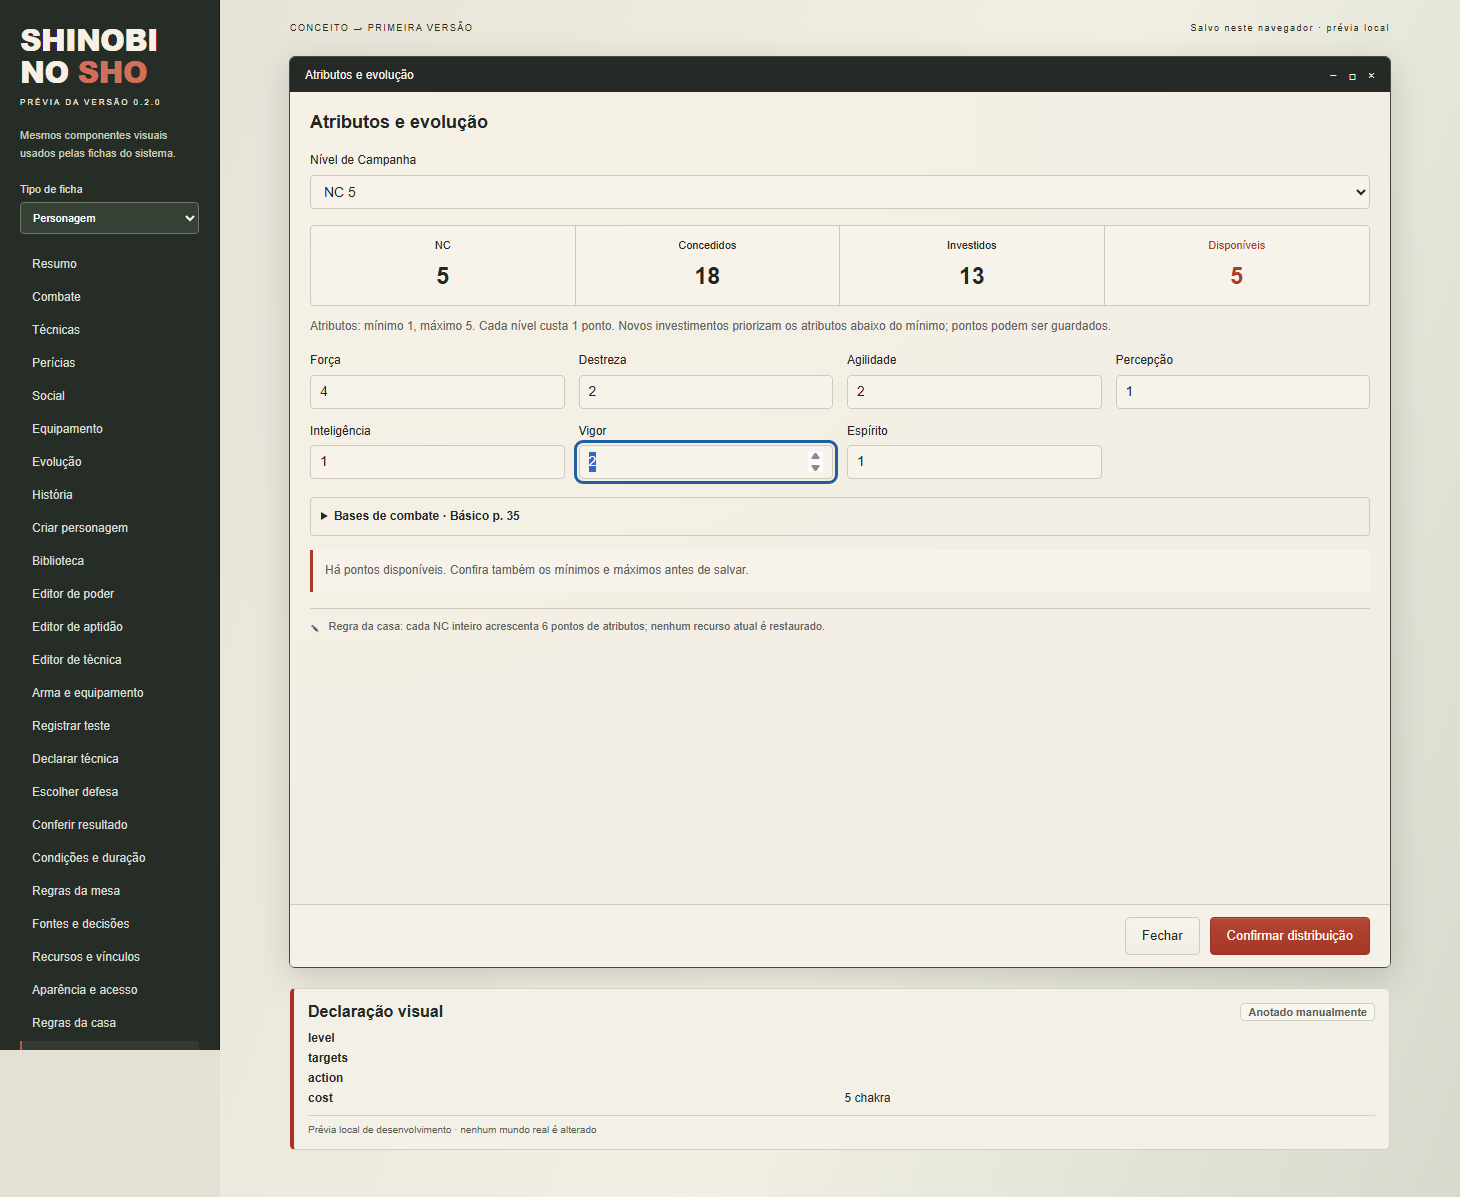
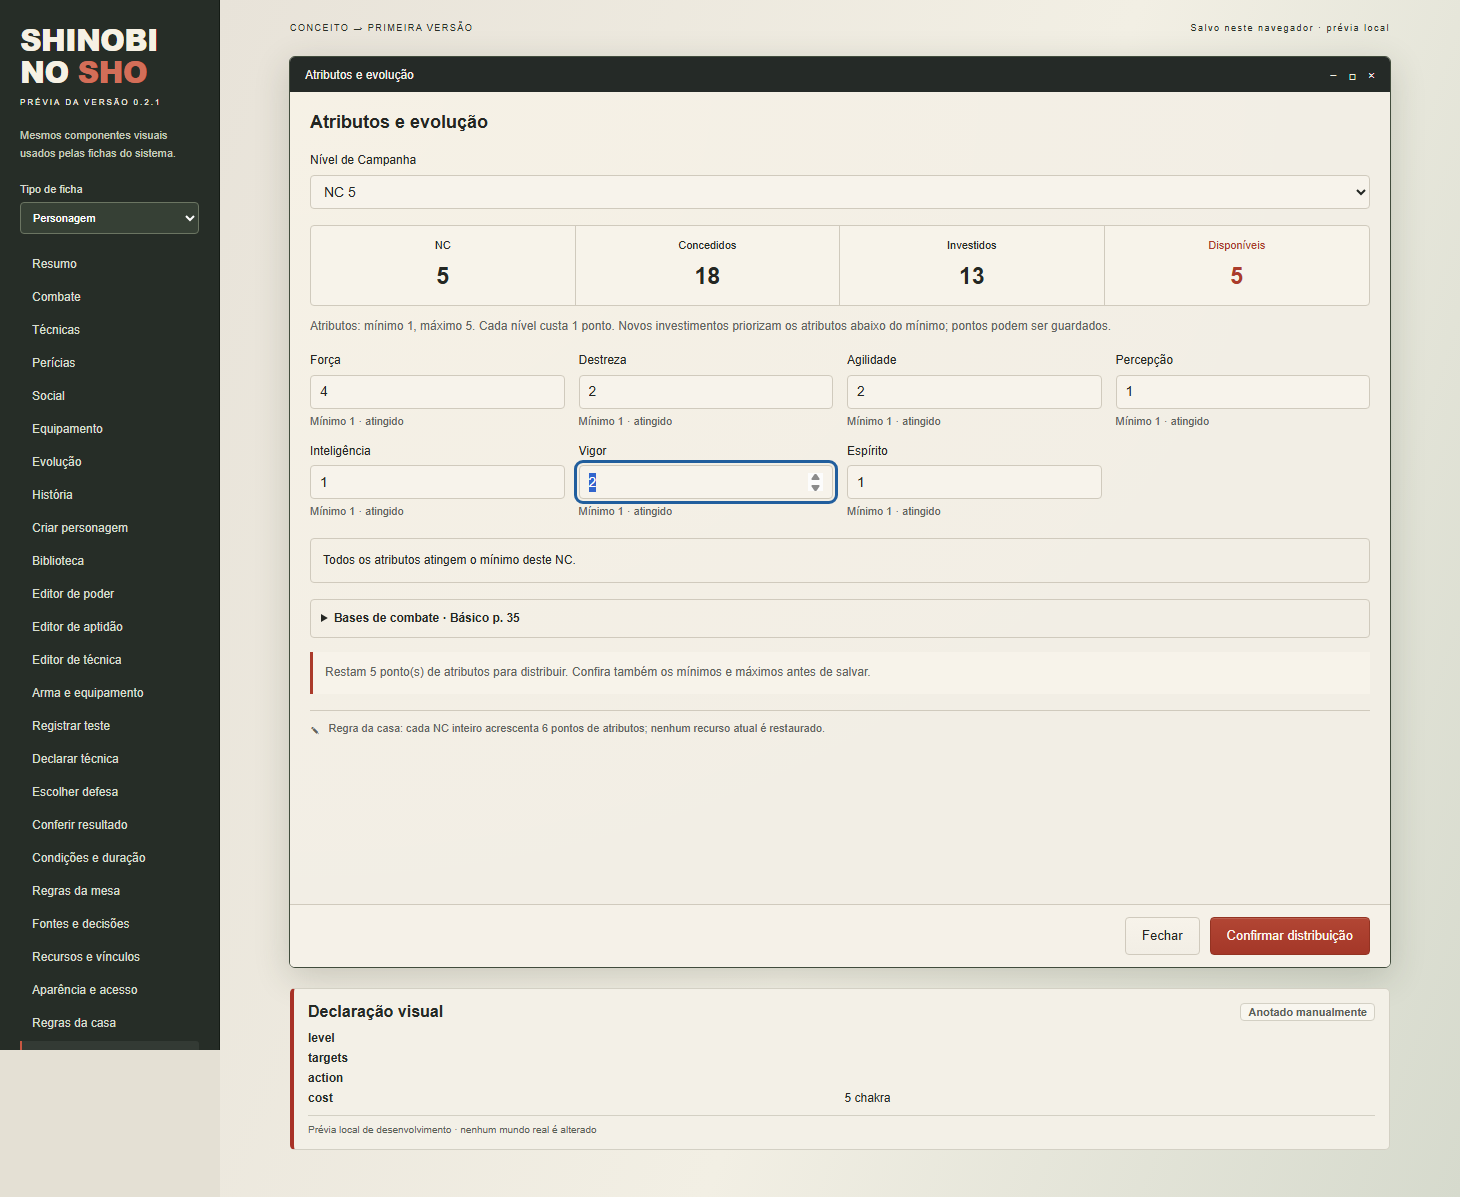
fix: show allocation deficits and lock combat bases after creation

Changed region(s): [[0.2158, 0.34, 0.6473, 0.5255], [0.2158, 0.5564, 0.5856, 0.6182], [0.8014, 0.34, 0.8322, 0.3709]]

diff --git a/styles/automation.css b/styles/automation.css
@@ -18,3 +18,12 @@
 .sns-app .sns-roll-explanation {font-size:12px;line-height:1.5;padding:13px;border:1px solid var(--sns-line);background:var(--sns-card);border-radius:4px;margin-top:15px;}
 .sns-app .sns-allocation>.sns-hint {display:block;margin-bottom:12px;}
 @container(max-width:560px){.sns-app .sns-condition-cards {grid-template-columns:minmax(0,1fr);}.sns-app .sns-attribute-allocation {grid-template-columns:repeat(2,minmax(0,1fr));}}
+
+.sns-app .sns-allocation-entry {min-width:0;}
+.sns-app .sns-allocation-entry>small {display:block;font-size:11px;line-height:1.4;margin-top:5px;color:var(--sns-muted);}
+.sns-app .sns-allocation-entry[data-minimum-pending=true] input {border:2px solid var(--sns-red);}
+.sns-app .sns-minimum-notice {font-size:12px;line-height:1.6;padding:12px;border:1px solid var(--sns-line);border-radius:4px;margin:0 0 16px;}
+.sns-app .sns-minimum-notice[data-pending=true] {border-left:4px solid var(--sns-red);background:var(--sns-card);font-weight:600;}
+
+.sns-app .sns-base-status {font-size:12px;line-height:1.5;margin-top:12px;}
+.sns-app .sns-base-status[data-pending=true] {border-left:4px solid var(--sns-red);padding:10px;background:var(--sns-card);font-weight:600;}

diff --git a/RELEASE-NOTES.md b/RELEASE-NOTES.md
@@ -1,11 +1,11 @@
-# Shinobi no Sho 0.2.0
+# Shinobi no Sho 0.2.1
 
-Resumo e evolução agora calculam atributos investidos, CC, CD, Esquiva, LM, deslocamento, vida e chakra máximos. A criação permite escolher NC 4–20; a evolução abre a distribuição de atributos e não recupera recursos atuais.
+A evolução agora destaca os atributos abaixo do mínimo do novo NC e indica quantos pontos são necessários. O aviso é atualizado durante a edição.
 
-O mestre escolhe **nível inteiro ou EXP** em **Regras da casa**. Condições do Livro Básico usam efeitos incorporados à ficha, penalidades contextuais, resistência e processamento por turno. Sangrando tem uma tentativa de Vigor por turno; Confuso 5–6 mantém reações defensivas.
+Os saldos de atributos e bases de combate aparecem separadamente, com quantidade faltante ou excedente. Nas bases, também é conferido o limite de transferência de 2 pontos.
 
-Fichas antigas: use **Conferir e ativar cálculos** depois de revisar atributos e bases. Seus recursos atuais serão preservados. Técnicas, compras e dano de ataques continuam manuais.
+Conforme decisão da mesa, as bases só podem ser distribuídas na criação. Na evolução, ficam somente para consulta, inclusive para o mestre.
 
-Manifesto estável: https://github.com/darkmonsterpro0-droid/shinobi-no-sho/releases/latest/download/system.json
+Manifesto de atualização: https://github.com/darkmonsterpro0-droid/shinobi-no-sho/releases/latest/download/system.json
 
-38 testes de código e 15 verificações de fluxos da prévia aprovados. A prévia usa serviços reais com documentos simulados; não equivale a um mundo Foundry. Compatibilidade declarada para 14.367; turnos, efeitos e permissões em múltiplos clientes ainda exigem verificação nativa. Consulte docs/VALIDACAO.md e docs/AUTOMACOES.md.
+38 testes de código e verificação dos fluxos na prévia. A validação dentro do Foundry real continua pendente; veja docs/VALIDACAO.md.

diff --git a/docs/AUTOMACOES.md b/docs/AUTOMACOES.md
@@ -16,7 +16,7 @@ As fórmulas comuns aplicam-se a personagens com cálculos ativos. Criaturas e m
 | Iniciativa | 1d8 + AGI + precisão de Prontidão; modificadores de condição aplicáveis |
 | Esquiva normal | Defesa fixa 9 + precisão; Básico p.256 |
 
-Na criação, todos os pontos de atributos devem ser distribuídos. Na evolução, o saldo pode ser guardado; investimentos novos priorizam atributos abaixo do mínimo. A evolução não diminui atributos já comprados. Alterar as bases após a criação depende do mestre. A janela abre ao criar uma ficha nativa e ao elevar o NC; também pode ser aberta pelo botão do NC ou **Distribuir / subir NC**.
+Na criação, todos os pontos de atributos devem ser distribuídos. A janela destaca atributos abaixo do mínimo e informa os pontos necessários, atualizando durante a edição. Bases de combate têm aviso próprio de pontos faltantes/excedentes em relação à soma 12, além do limite de 2 pontos transferidos. Na evolução, o saldo pode ser guardado; investimentos novos priorizam atributos abaixo do mínimo. A evolução não diminui atributos já comprados. Nesta mesa, as bases só podem ser distribuídas durante a criação. Depois ficam somente para consulta, inclusive para o mestre, conforme decisão do usuário em 22/10/2026. A janela abre ao criar uma ficha nativa e ao elevar o NC; também pode ser aberta pelo botão do NC ou **Distribuir / subir NC**.
 
 A escolha entre avanço por nível inteiro e EXP pertence às **Regras da casa**. No primeiro modo, subir cada NC concede 6 pontos de atributos. No segundo, subir o NC muda os limites e o mestre concede EXP separadamente, inclusive frações. Trocar o modo não corrige pontos anteriores retroativamente. Há histórico de concessões e distribuições na ficha.
 

diff --git a/docs/VALIDACAO.md b/docs/VALIDACAO.md
@@ -1,6 +1,6 @@
-# Validação até a versão 0.2.0
+# Validação até a versão 0.2.1
 
-Data: 21/10/2026. Alvo: Foundry VTT 14. Interface em português brasileiro, resumo calculado e condições.
+Atualizado em 22/10/2026. Alvo: Foundry VTT 14. Interface em português brasileiro, resumo calculado e condições.
 
 ## Evidência executada
 
@@ -27,6 +27,12 @@ Data: 21/10/2026. Alvo: Foundry VTT 14. Interface em português brasileiro, resu
 - Sangrando é testado com múltiplos níveis e uma tentativa de Vigor por turno. Há testes para estabilização apesar da inconsciência de Morrendo, recuperação de Estável, sufocamento inconsciente, camuflagem e sentidos.
 - 15 verificações de fluxos da prévia aprovadas: incluem evolução para NC5 sem cura, concessão de EXP fracionária, sangramento por turno, resistência e recusa da segunda tentativa no mesmo turno. A recusa é um erro esperado e conferido; nenhum erro de JavaScript não tratado foi registrado.
 - Nove telas densas conferidas em 320 e 420 pixels, incluindo distribuição, condições, regras da casa e testes. Capturas inspecionadas visualmente. Não houve teste nativo dentro do Foundry nesta etapa.
+
+## Correções da 0.2.1
+
+- Na evolução de NC4 para NC5, o navegador confere o aviso de Inteligência 0 → 1 e sua resolução ao investir o ponto necessário.
+- Na criação, alterar as bases produz mensagens próprias de excesso, falta e distribuição completa durante a edição. Na evolução, os campos são somente para leitura.
+- Os serviços rejeitam alteração das bases após a criação, inclusive com usuário mestre e chamadas diretas de atualização.
 
 ## Limite atual
 

diff --git a/README.md b/README.md
@@ -1,6 +1,6 @@
 # Shinobi no Sho — Foundry VTT 14
 
-**Versão 0.2.0 · resumo, evolução e condições · português brasileiro**
+**Versão 0.2.1 · resumo, evolução e condições · português brasileiro**
 
 Fichas em marfim e grafite, com resumo calculado, distribuição de atributos por NC e condições do Livro Básico. O mestre escolhe o avanço por EXP ou nível inteiro nas Regras da casa.
 
@@ -85,7 +85,7 @@ A prévia abre em `http://127.0.0.1:4173` e usa os mesmos componentes de layout.
 Para preparar uma atualização, sempre use **um número maior e ainda não publicado**:
 
 ```sh
-node scripts/release.mjs --version 0.2.1 --repo darkmonsterpro0-droid/shinobi-no-sho
+node scripts/release.mjs --version 0.2.2 --repo darkmonsterpro0-droid/shinobi-no-sho
 node --test tests/*.test.mjs
 node scripts/release.mjs --check --repo darkmonsterpro0-droid/shinobi-no-sho
 ```

diff --git a/CHANGELOG.md b/CHANGELOG.md
@@ -1,5 +1,12 @@
 # Histórico de versões
 
+## 0.2.1 — 2026-10-22
+
+- Destaca atributos abaixo do mínimo ao elevar o NC, com valores atuais, mínimo exigido e pontos necessários. O aviso acompanha a edição dos campos.
+- Informa separadamente pontos de atributos restantes/excedentes e o saldo das bases de combate em relação à soma 12, incluindo transferência excessiva.
+- Bases de combate só podem ser distribuídas na criação, inclusive para o mestre, conforme decisão da mesa. Na evolução, ficam somente para consulta; a gravação também rejeita redistribuições.
+- Verifica avisos de mínimo/saldo e bloqueio das bases na prévia e nos serviços.
+
 ## 0.2.0 — 2026-10-21
 
 - Adiciona resumo calculado, bases de combate, deslocamento, vida e chakra máximos, iniciativa e testes com condições.

diff --git a/AGENTS.md b/AGENTS.md
@@ -12,3 +12,5 @@
 - A identidade visual aprovada é marfim/grafite/vermelho, bordas discretas de pergaminho, tipografia legível e estrutura das quatro pranchas de conceito. Manter teclado, foco visível e janela estreita.
 
 - Sangrando: uma tentativa de Vigor 18 por turno, independentemente dos níveis; Medicina 16 usa uma ação padrão por tentativa. Confuso 5–6 mantém reações defensivas. Decisões expressas do usuário.
+
+- Decisão de 22/10/2026: bases de combate editáveis somente na criação, inclusive para o mestre. Na evolução, consultar sem redistribuir.
